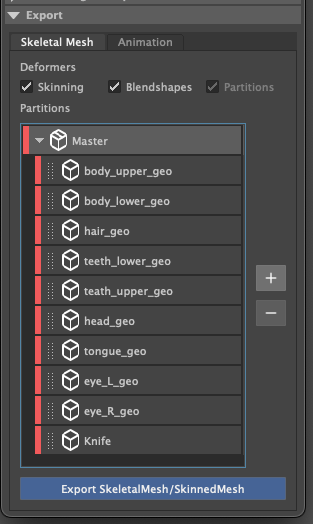
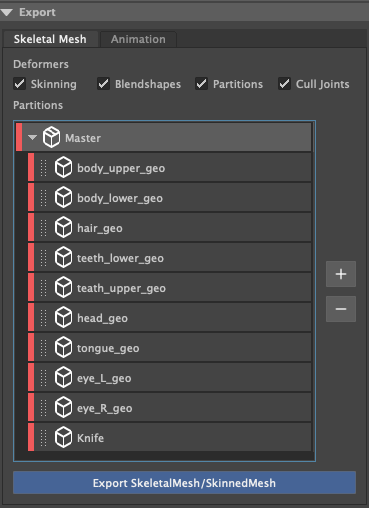
Updated Shifter Docs

diff --git a/docs/source/shifterUserDocumentation.rst b/docs/source/shifterUserDocumentation.rst
@@ -114,7 +114,6 @@ UI
 .. image:: images/shifter/fbx_exporter/fbx_shifter.png
 
 * **File** - Allows for users to serialise there settings, incase they want to reload them, or use them in a scripted pipeline.
-* **FBX SDK(Optional)** - Allows the specify where the FBX SDK can be found. This allows the UI to perform some extra :ref:`features <shifter-fbx-sdk-features>`
 
 
 Source Elements
@@ -136,7 +135,7 @@ Settings
 
 You can specify the FBX export settings here.
 
-If *FBX SDK* enabled, then you can also perform additional commands post export.
+It also allows for some extra conditioning of the data upon export.
 
 - Remove Namespace
 - Clean up scene.
@@ -155,6 +154,9 @@ It also **refreshes** the **Unreal Skeleton** list, by querying the current open
 
 .. image:: images/shifter/fbx_exporter/fbx_shifter_ue_no_path.png
     :align: center
+
+.. note::
+    If you have selected a skeleton and no longer what to import using the selected skeleton, or wish to generate a new skeleton on import, ctr click on the selected element to deselect it.
 
 - **Directory**: The import location in Unreal for the SKM and Animations.
 
@@ -181,33 +183,31 @@ Allows for the exporting of Skeletons and Geometry.
 
 - **Skinning**: Export Skinning data
 - **Blendshapes**: Export Blendshapes that exist on the geometry.
+- **Partitions**: Export Partitioned FBXs.
+- **Cull Joints**: With Cull Joints enabled, generated fbx partition files will have all unneccesary leaf nodes removed.
+*Unnessary leaf nodes*, would be any joint that is no longer driving geometry and no longer required to drive any other joints that has skinning, to influence geometry that is part of the partition.
+
+.. note::
+    Exporting the Skeletal Mesh, will trigger a mayabatch session, that performs all the file conditioning, and then performs the fbx exporting.
 
 **Partitions**
 
-*(If available)* Performs partitioning of skeleton hierarchy data.
+Performs partitioning of geometric data.
+Partitions are designed to allow you to export once, and generate an FBX per a partition. Each generated FBX partition, will only contain the geometry that has been added to the partition.
 
 - When you add the **geometry roots**, all geometry child objects will get added to the **Master** partition.
-
-Partitions are designed to allow you to export once, and generate new skeletons hierarchies that share the same root structure, but have all unneccesary leaf nodes removed.
-*Unnessary leaf nodes*, would be any joint that is no longer driving geometry and no longer required to drive any other joints that have skinning. 
 
 .. image:: images/shifter/fbx_exporter/fbx_shifter_export_geo_partitions.png
         :align: center
 
 - Press the **"+"** button to create a custom partition. Once it has been created you can drag any other geometry objects from the master partition, to the custom partition.
 - Right click on a Partition to change its colour, duplicate or delete it.
+- Toggling the button on the partition, will disable it from being exported.
 
 **Export Skeletal/SkinnedMesh**: Performs the FBX export, and if **"Enable Unreal Engine Import"** is active, the fbx's will be imported into the active Unreal Engine project.
 
 .. note::
     If you want to use a pre-existing skeleton in Unreal, make sure to have selected the *skeleton* in the *Unreal Engine Imports* section. If you have not, a new Skeleton will be generated on import into Unreal. 
-
-.. _shifter-fbx-sdk-features:
-
-**FBX SDK Features**
-
-If you have FBX SDK enabled, it will allow you to export the fbx SKM, and create a Skeleton per a partition group.
-The skeleton that is created per a group, has trimmed all bones that no longer drive any geometry objects in the partition.
 
 Animation
 ++++++++++++++++++
@@ -220,6 +220,7 @@ Exports the Maya animation as an FBX. **Clips** allow for sections of the maya t
 **Clip**
 
 Clips allow you to create named animation exportd, that represent a section of time on the maya timeline.
+New Clips will automatically read the duration of the Maya timeline, and use that as the start and end frame.
 
 - **Trash can**: Removes the clip.
 - **Name of the clip** will be appended to the file. eg. *BoyA_ROM*, *BoyA_Clip_2*
